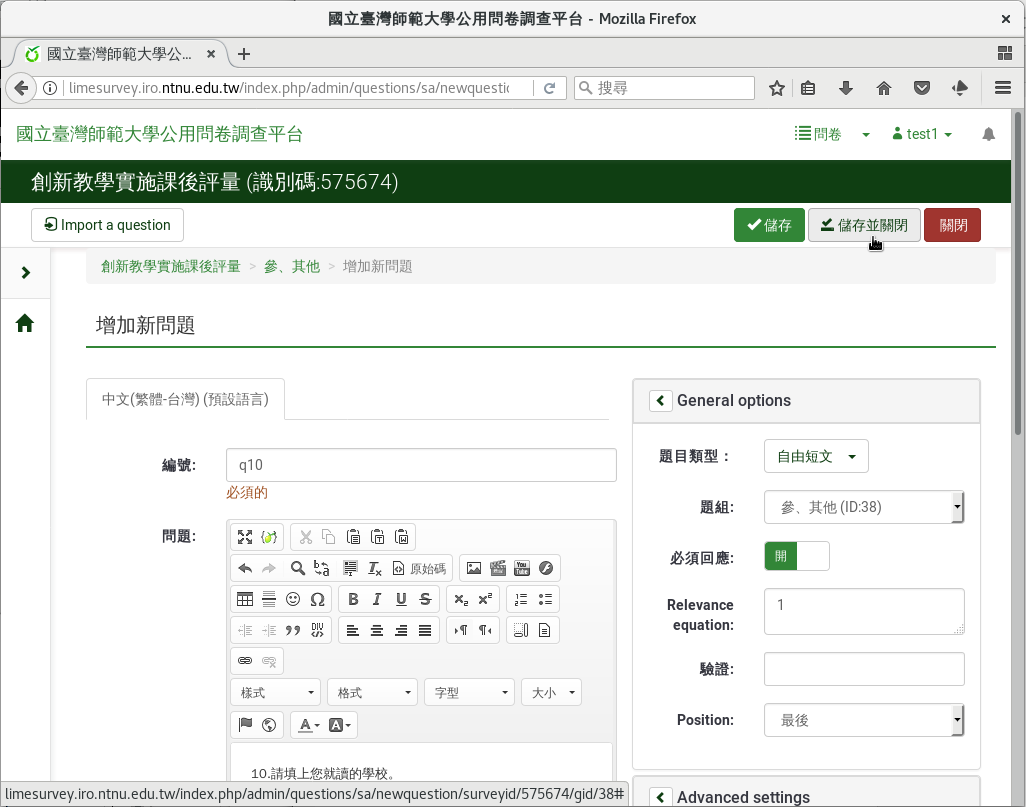
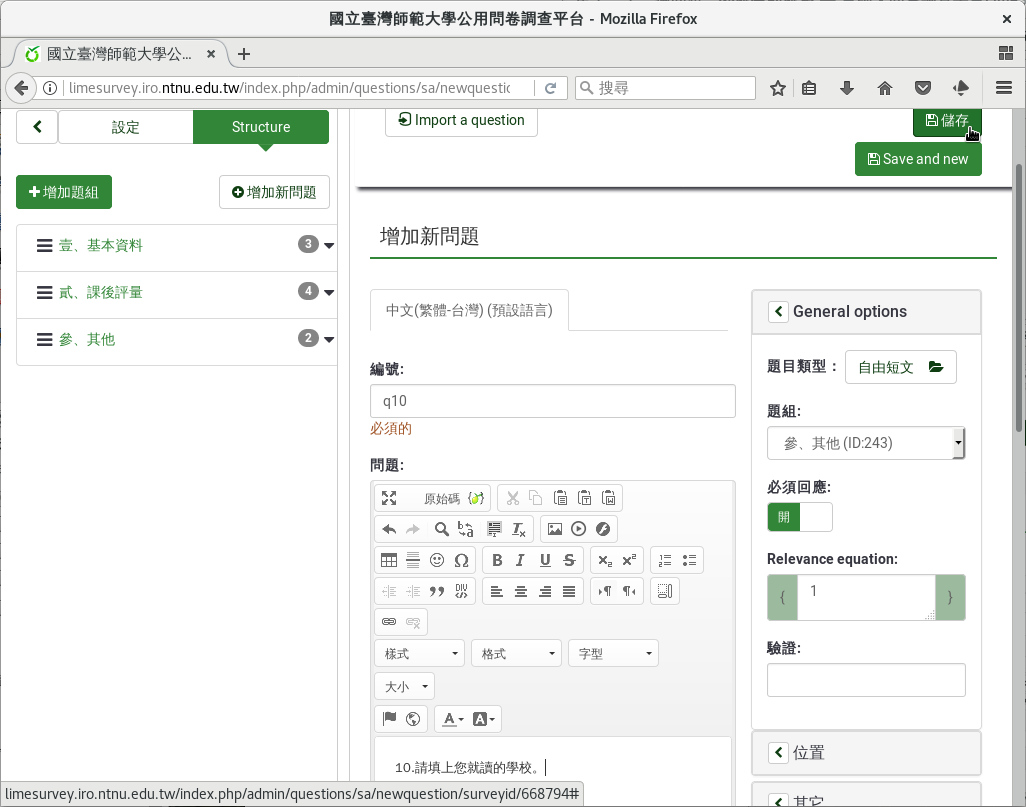
* Updated for LimeSurvey 3 for Chapter 3-4.

diff --git a/03-04-03-school.rst b/03-04-03-school.rst
@@ -3,9 +3,10 @@
 
 如果是外校生，請同學填上學校和科系。
 
-在新增問卷問題的編輯頁面上，編號填上「q10」，問題填上「10.請填上您就讀
-的學校。」題型往下拉選「 :index:`自由短文 <題型; 單行文字>` 」，題組選
-「參、其他」，開啟「必須回應」，然後按「儲存並關閉」。
+在新增問卷問題的編輯頁面上，編號填上「q10」，問題填上
+「10.請填上您就讀的學校。」題型選擇「開放性問題」裏的
+「 :index:`自由短文 <題型; 單行文字>` 」，題組選「參、其他」，開啟
+「必須回應」，然後按「儲存」。
 
 .. figure:: images/03-04-03-school-01.png
     :alt: 問題十：外校生的就讀學校
@@ -14,8 +15,8 @@
     問題十：外校生的就讀學校
 
 接著按上方「Set conditions」設定問題的條件。在設定問題條件的頁面上，往
-下拉到頁面下方「增加條件」的地方，問題選剛剛的第八題「q08: 8.您是不是
-台師大學生？」答案選「N(否)」，然後按下「增加條件」。
+下拉到頁面下方「增加條件」的地方，問題選剛剛的第八題
+「q08: 8.您是不是台師大學生？」答案選「N(否)」，然後按下「增加條件」。
 
 .. figure:: images/03-04-03-school-02.png
     :alt: 加上外校生就讀學校問題的條件
@@ -35,9 +36,10 @@
 
     設好的外校生就讀學校問題條件
 
-再一次，在新增問卷問題的編輯頁面上，編號填上「q11」，問題填上「11.請填
-上您就讀的科系。」題型往下拉選「 :index:`自由短文 <題型; 單行文字>` 」
-，題組選「參、其他」，開啟「必須回應」，然後按「儲存並關閉」。
+再一次，在新增問卷問題的編輯頁面上，編號填上「q11」，問題填上
+「11.請填上您就讀的科系。」題型選擇「開放性問題」裏的
+「 :index:`自由短文 <題型; 單行文字>` 」，題組選「參、其他」，開啟
+「必須回應」，然後按「儲存」。
 
 .. figure:: images/03-04-03-school-04.png
     :alt: 問題十一：外校生的就讀科系
@@ -46,8 +48,8 @@
     問題十一：外校生的就讀科系
 
 接著按上方「Set conditions」設定問題的條件。在設定問題條件的頁面上，往
-下拉到頁面下方「增加條件」的地方，問題選剛剛的第八題「q08: 8.您是不是
-台師大學生？」答案選「N(否)」，然後按下「增加條件」。
+下拉到頁面下方「增加條件」的地方，問題選剛剛的第八題
+「q08: 8.您是不是台師大學生？」答案選「N(否)」，然後按下「增加條件」。
 
 .. figure:: images/03-04-03-school-05.png
     :alt: 加上外校生就讀科系問題的條件

diff --git a/03-04-02-id.rst b/03-04-02-id.rst
@@ -3,9 +3,10 @@
 
 如果是台師大的學生，請同學填上學號。
 
-在新增問卷問題的編輯頁面上，編號填上「q09」，問題填上「9.請填上您的學
-號。」題型往下拉選「 :index:`自由短文 <題型; 單行文字>` 」，題組選
-「參、其他」，開啟「必須回應」，然後按「儲存並關閉」。
+在新增問卷問題的編輯頁面上，編號填上「q09」，問題填上
+「9.請填上您的學號。」題型選擇「開放性問題」裏的
+「 :index:`自由短文 <題型; 單行文字>` 」，題組選「參、其他」，開啟
+「必須回應」，然後按「儲存」。
 
 .. figure:: images/03-04-02-id-01.png
     :alt: 問題九：本校生的學號
@@ -13,18 +14,24 @@
 
     問題九：本校生的學號
 
+.. figure:: images/03-04-02-id-02.png
+    :alt: 選擇自由短文題型
+    :scale: 60%
+
+    選擇自由短文題型
+
 按上方「Set conditions」設定問題的條件。
 
-.. figure:: images/03-04-02-id-02.png
+.. figure:: images/03-04-02-id-03.png
     :alt: 按上方「Set conditions」設定問題條件。
     :scale: 60%
 
     按上方「Set conditions」設定問題條件。
 
-接著往下拉到頁面下方「增加條件」的地方，問題選剛剛的第八題「q08: 8.您
-是不是台師大學生？」答案選「Y(是)」，然後按下「增加條件」。
+接著往下拉到頁面下方「增加條件」的地方，問題選剛剛的第八題
+「q08: 8.您是不是台師大學生？」答案選「Y(是)」，然後按下「增加條件」。
 
-.. figure:: images/03-04-02-id-03.png
+.. figure:: images/03-04-02-id-04.png
     :alt: 加上問題的條件
     :scale: 60%
 
@@ -36,7 +43,7 @@
 
 我們按上方的「關閉」。
 
-.. figure:: images/03-04-02-id-04.png
+.. figure:: images/03-04-02-id-05.png
     :alt: 設好的問題條件
     :scale: 60%
 
@@ -48,7 +55,7 @@
 
 問題的條件設定好了。
 
-.. figure:: images/03-04-02-id-05.png
+.. figure:: images/03-04-02-id-06.png
     :alt: 問題的條件
     :scale: 60%
 

diff --git a/03-04-04-comment.rst b/03-04-04-comment.rst
@@ -4,14 +4,20 @@
 問卷最後我們請填答者給我們課程的建議，告訴我們問卷沒有問到的感想。
 
 課程建議題型使用「 :index:`自由長答 <題型; 多行文字>` 」。填答者不一定
-非給建議不可，不需要開啟「不須回應」。自由長答的內文可以做質性分析。
+非給建議不可，不是必答。自由長答的內文可以做質性分析。
 
-在新增問卷問題的編輯頁面上，編號填上「q12」，問題填上「12.您若有對課程
-的任何建議，請告訴我們。」題型往下拉選「自由長答」，題組選「參、其他」
-，不要開啟「必須回應」，然後按「儲存並關閉」。
+在新增問卷問題的編輯頁面上，編號填上「q12」，問題填上
+「12.您若有對課程的任何建議，請告訴我們。」題型選擇「開放性問題」裏的
+「自由長答」，題組選「參、其他」，不要開啟「必須回應」，然後按「儲存」。
 
-.. figure:: images/03-04-04-comment.png
-    :alt: 問題十二：自由長答
+.. figure:: images/03-04-04-comment-01.png
+    :alt: 問題十二：自由長答題
     :scale: 60%
 
-    問題十二：自由長答
+    問題十二：自由長答題
+
+.. figure:: images/03-04-04-comment-02.png
+    :alt: 選擇自由長答題型
+    :scale: 60%
+
+    選擇自由長答題型

diff --git a/03-04-01-yesno.rst b/03-04-01-yesno.rst
@@ -4,18 +4,24 @@
 第八個問題，要詢問答題者是否是本校學生。我們會用到
 :index:`「是／否」題型 <題型; 是／否>`。
 
-在新增問卷問題的編輯頁面上，編號填上「q08」，問題填上「8.您是不是台師
-大學生？」題型往下拉選「是／否」，題組選「參、其他」，開啟「必須
-回應」，然後按「儲存並關閉」。
+在新增問卷問題的編輯頁面上，編號填上「q08」，問題填上
+「8.您是不是台師大學生？」題型選擇「其他類型問題」裏的「是／否」，
+題組選「參、其他」，開啟「必須回應」，然後按「儲存」。
 
-.. figure:: images/03-03-04-order-01.png
-    :alt: 問題七：排序題型
+.. figure:: images/03-04-01-yesno-01.png
+    :alt: 問題八：是否題目
     :scale: 60%
 
-    問題七：排序題型
+    問題八：是否題目
 
-.. figure:: images/03-03-04-order-04.png
-    :alt: 排序題型預覽
+.. figure:: images/03-04-01-yesno-02.png
+    :alt: 選擇是否題型
     :scale: 60%
 
-    排序題型預覽
+    選擇是否題型
+
+.. figure:: images/03-04-01-yesno-03.png
+    :alt: 是否題目預覽
+    :scale: 60%
+
+    是否題目預覽

diff --git a/03-04-logic.rst b/03-04-logic.rst
@@ -12,14 +12,15 @@
     - 回答是者，接著回答第九題學號。
     - 回答否者，跳到第十題學校，和第十一題科系。回答是者不需回答。
 
-從左邊「Question Explorer」下的「新增群組」進入。標題填上「參、其他」
+在左側欄的問卷結構中，點選上方的
+「 :index:`增加群組 <pair: 題組; 建立>` 」進入。標題填上「參、其他」
 ，然後按右上角「儲存並關閉」。
 
 .. figure:: images/03-04-logic-01.png
-    :alt: 點按新增群組
+    :alt: 點按增加群組
     :scale: 60%
 
-    點按新增群組
+    點按增加群組
 
 .. figure:: images/03-04-logic-02.png
     :alt: 新增群組頁面

diff --git a/03-03-question-types.rst b/03-03-question-types.rst
@@ -10,10 +10,10 @@
 「貳、課後評量」，然後按右上角「儲存」。
 
 .. figure:: images/03-03-new-group-01.png
-    :alt: 點按新增群組
+    :alt: 點按增加群組
     :scale: 60%
 
-    點按新增群組
+    點按增加群組
 
 .. figure:: images/03-03-new-group-02.png
     :alt: 新增群組頁面
